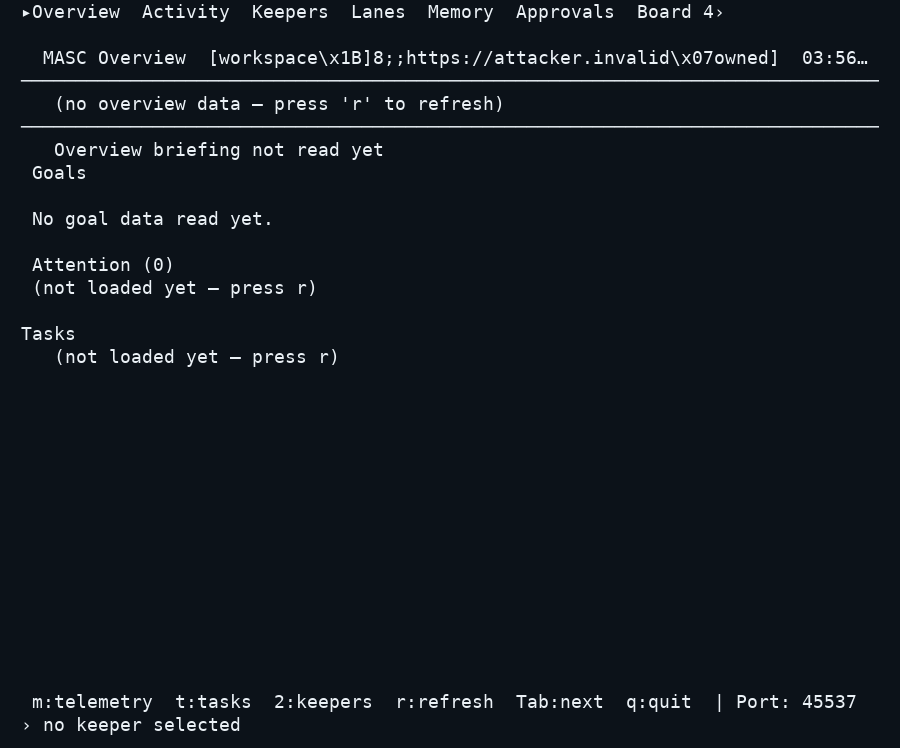
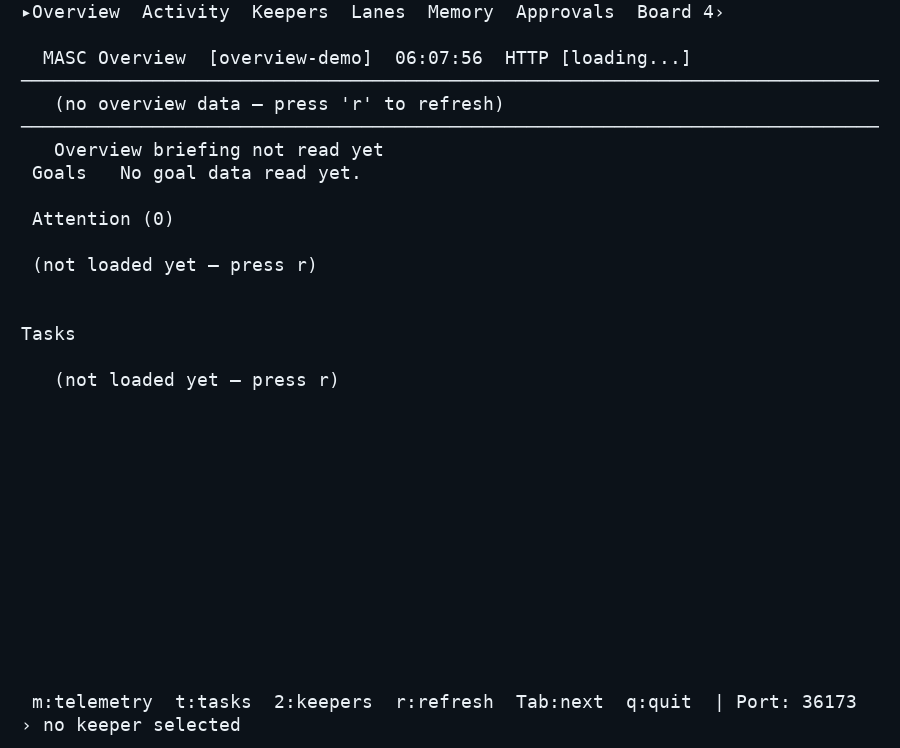
docs(tui): refresh Overview first-use PTY frames

diff --git a/docs/screenshots/tui/2026-09-28/overview-first-use/README.md b/docs/screenshots/tui/2026-09-28/overview-first-use/README.md
@@ -1,17 +1,17 @@
 # Overview first-use PTY frames
 
-These PNGs replay actual 80×32 and 140×32 PTY frames from [Test run 36375142759, job 108779332096](https://github.com/jeong-sik/masc/actions/runs/36375142759/job/108779332096). Run head: `7c1e432e7d2e1fcb32e7950f95f1777082a6cfcb`. The targeted `test_tui_keyboard_overview_pty` suite passed. Text and cell positions come from the captured frames; DejaVu Sans Mono and monochrome colour are used for this image replay. The linked run log contains the raw ANSI frames as `OVERVIEW_FRAME_*_B64`.
+These PNGs replay actual 80×32 and 140×32 PTY frames from [Test run 36384455321, job 108806799941](https://github.com/jeong-sik/masc/actions/runs/36384455321/job/108806799941). Run head: `81c14def69cbefbf613c672b2e7d557083467d38`. The targeted `test_tui_keyboard_overview_pty` suite passed. Text and cell positions come from the captured frames; DejaVu Sans Mono and monochrome colour are used for this image replay. The linked run's `suite-runner-log` artifact contains the raw ANSI frames as `OVERVIEW_FRAME_*_B64`.
 
 | Briefing state | 80×32 | 140×32 |
 | --- | --- | --- |
 | Not read yet | [PNG](overview-unread-80x32.png) | [PNG](overview-unread-140x32.png) |
 | Read, Keeper 0 | [PNG](overview-empty-80x32.png) | [PNG](overview-empty-140x32.png) |
 
-The unread state says `Overview briefing not read yet` and does not claim the fleet is empty. The read empty state shows `Start here (2 steps)`, the actual create and navigation instructions, and `Approvals: 0?` because that source is unread. At this 32-row height, usage displays six of nine accounts at both widths and explicitly says that three more do not fit.
+The unread state says `Overview briefing not read yet` and does not claim the fleet is empty. The read empty state shows `Start here (2 steps)`, the actual create and navigation instructions, and `Approvals: 0?` because that source is unread. At this 32-row height, usage displays four of nine accounts at both widths and explicitly says that five more do not fit.
 
 Raw frame SHA-256, in table order:
 
[8 lines of base64/hex data omitted]
